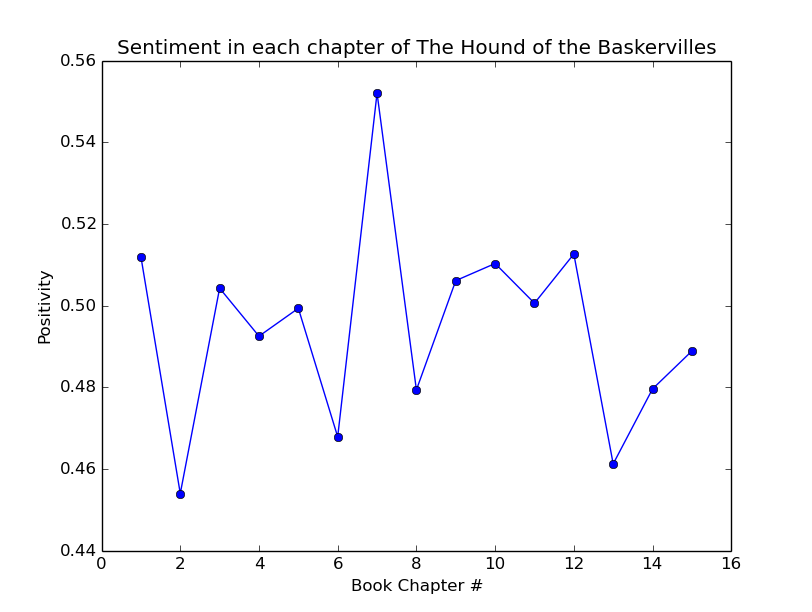
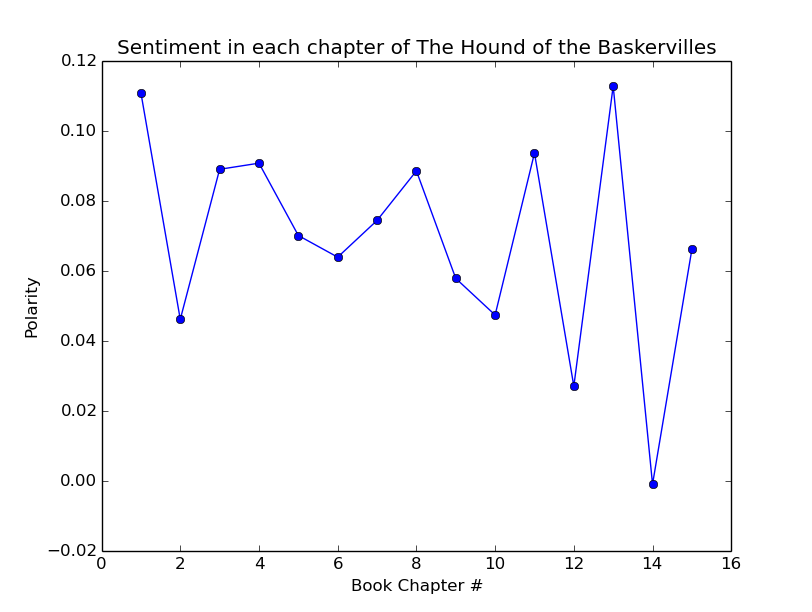
Added more comments to code and fixed error in output graph (graphing incorrect set of data)

diff --git a/plot_sentiment_analysis.py b/plot_sentiment_analysis.py
@@ -20,13 +20,18 @@ def plot_sentiment_analysis(book_file_name):
 	input_book_lines = filter(None, input_book_lines)
 	lines = strip_gutenberg_header(input_book_lines)
 	lines = separate_chapters(lines)
+	#calculates sentiment of each chapter
 	all_sentiment = []
 	for chap in lines:
 		all_sentiment.append(sentiment(chap))
+	#transforms sentiment from (polarity, subjectivity) to (polarity)(subjectivity)
 	all_sentiment = zip(*all_sentiment)
-	plt.plot((1,2,3,4,5,6,7,8,9,10,11,12,13,14,15),all_sentiment[1],'-o')
+	#calculates number of chapters in book
+	num_chaps = [x+1 for x in range(len(lines))]
+	#plots polarity vs. chapter #
+	plt.plot(num_chaps,all_sentiment[0],'-o')
 	plt.xlabel('Book Chapter #')
-	plt.ylabel('Positivity')
+	plt.ylabel('Polarity')
 	plt.title('Sentiment in each chapter of The Hound of the Baskervilles')
 	plt.show()
 
@@ -48,20 +53,22 @@ def separate_chapters(lines):
 	chap_breaks = []
 	end_line = 0
 	for line_num, line in enumerate(lines):
+		#finds what line a chapter begins and ends at
 		if line.find('Chapter') == 0:
 			chap_breaks.append((prev_break, line_num))
 			prev_break = line_num + 1
+		#finds last line of last chapter (must hard code in text)
 		if line.find("can stop at Marcini's for a little dinner on the way") == 0:
 			end_line = line_num + 1
 			chap_breaks.append((prev_break, end_line))
+	#removes empty first chapter break that only contains author information
 	del chap_breaks[0]
-	#print chap_breaks
+	#turns data on where a chapter begins and ends and compiles list of strings, 
+	#with each string containing the text for each chapter
 	chap_texts = []
 	for chap in range(len(chap_breaks)):
 		start_line, end_line = chap_breaks[chap]
 		chap_texts.append(reduce(lambda x,y: x + " " + y, lines[start_line:end_line]))
-	#print len(chap_texts)
-	#print "\n------------------------\n".join(chap_texts)
 	return chap_texts
 
 
